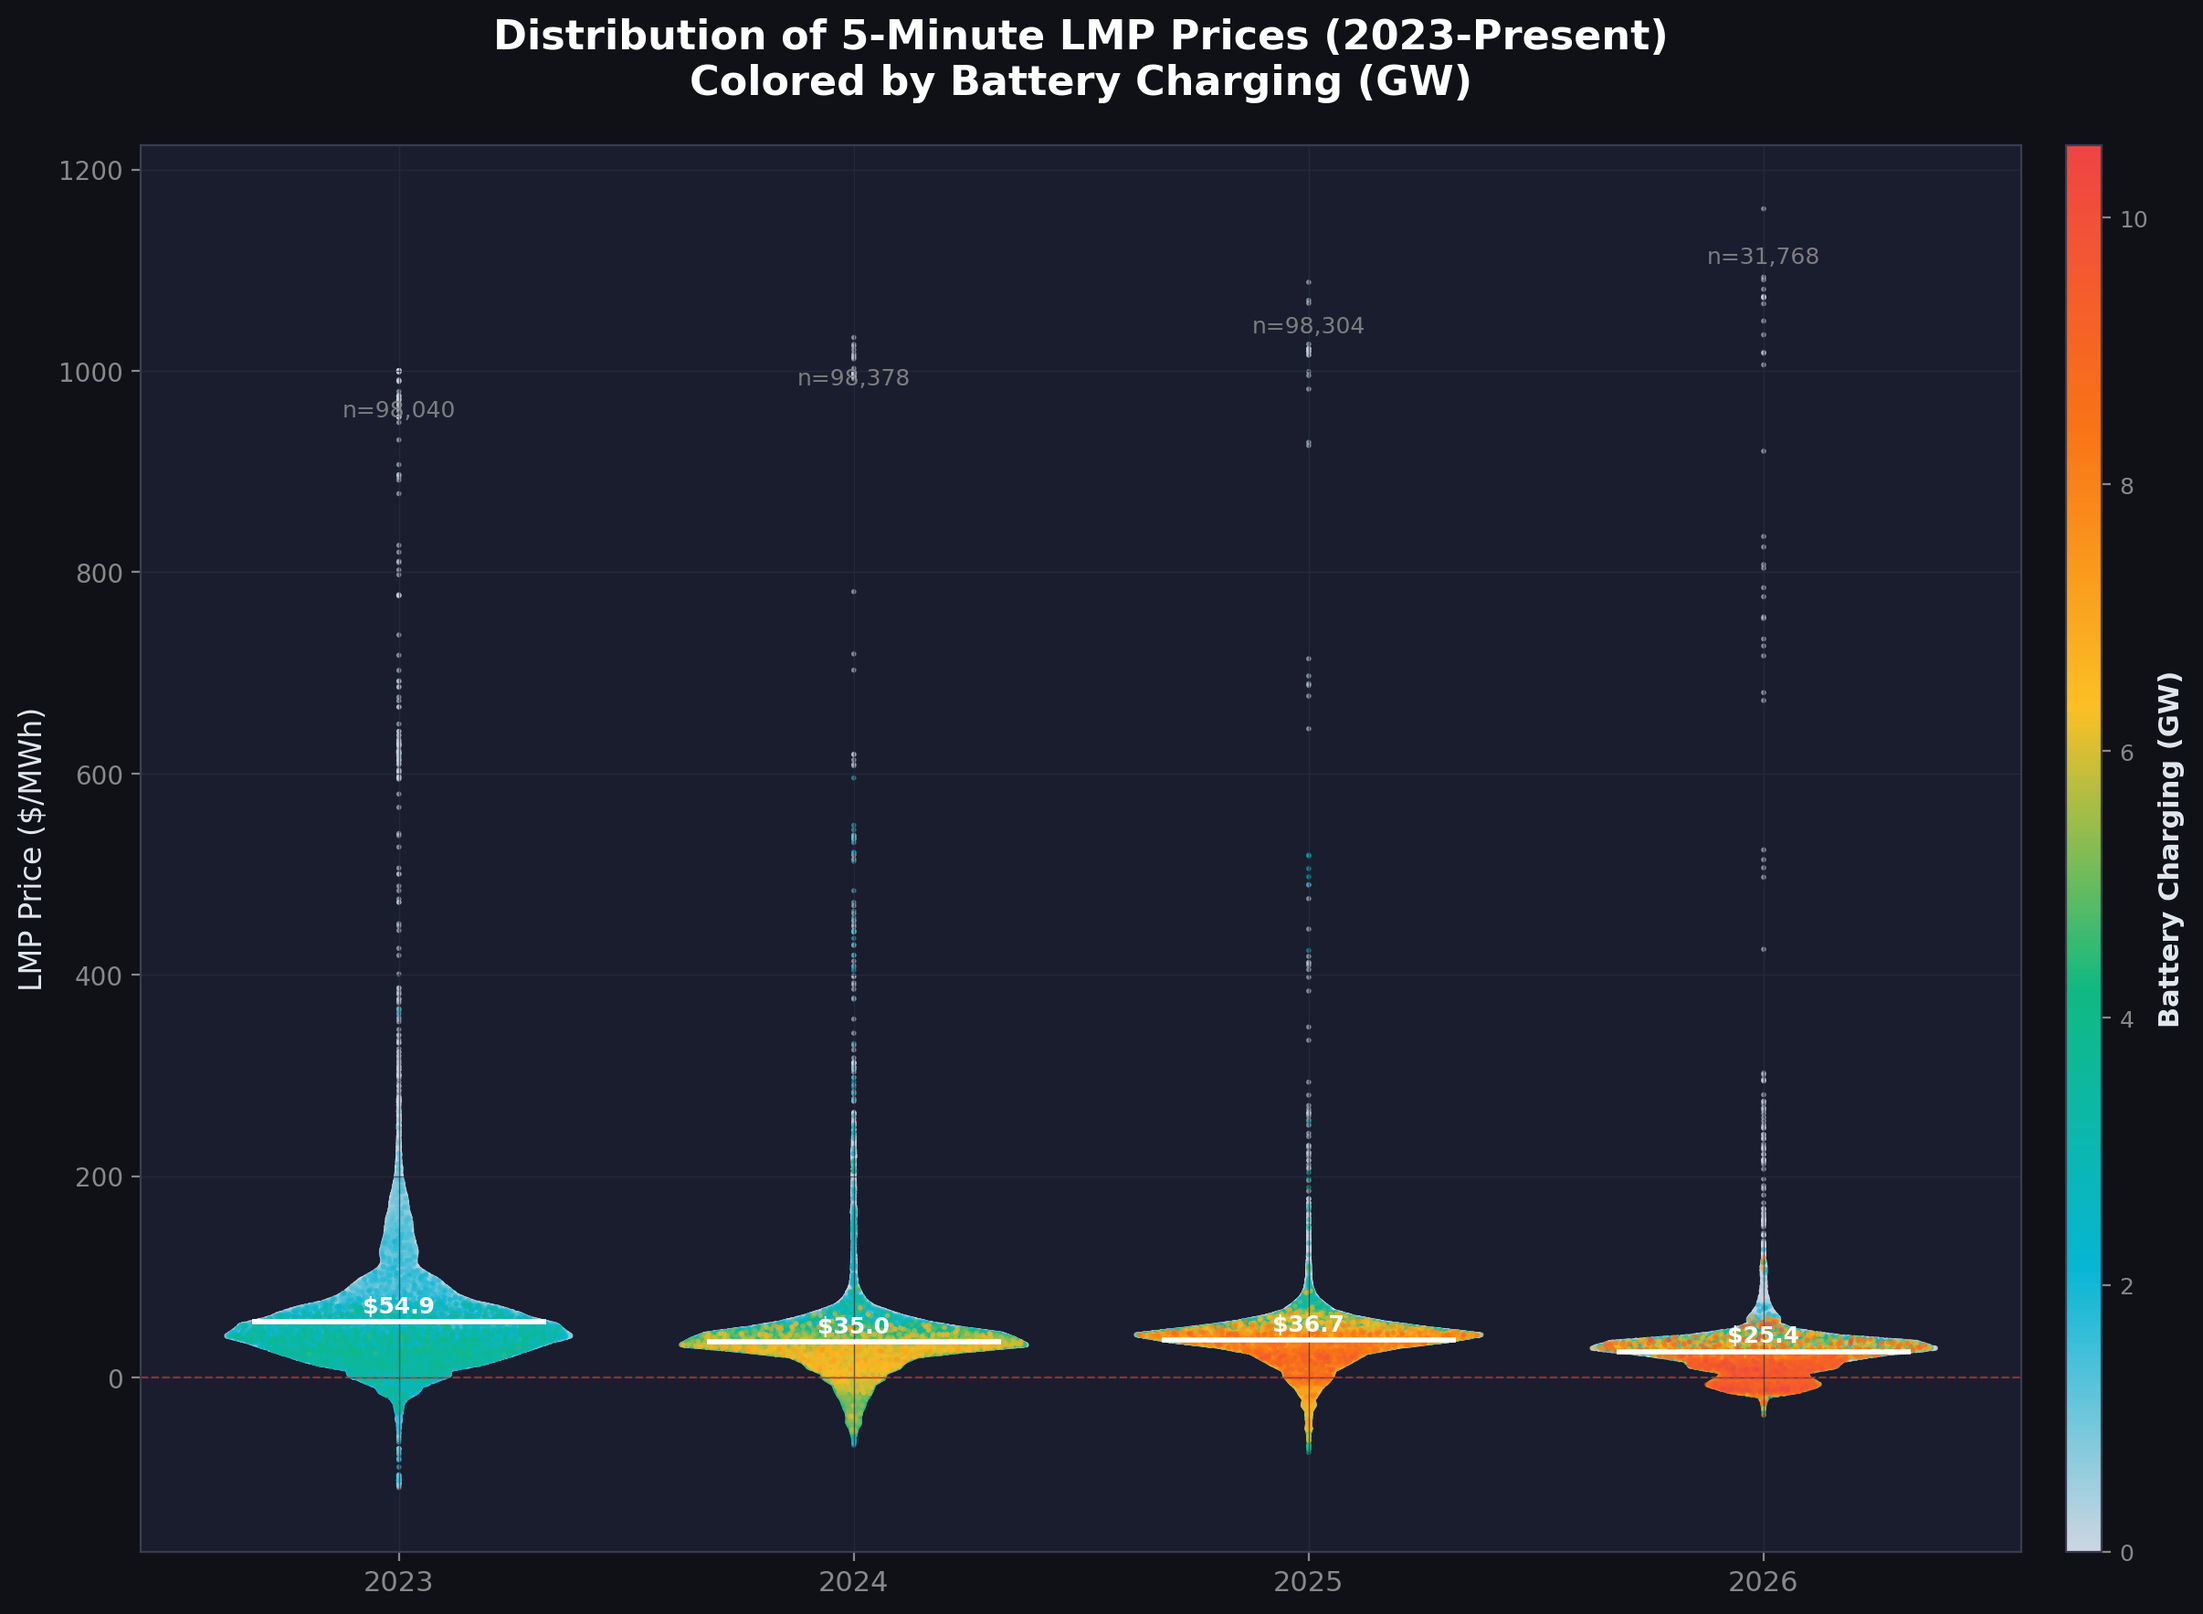
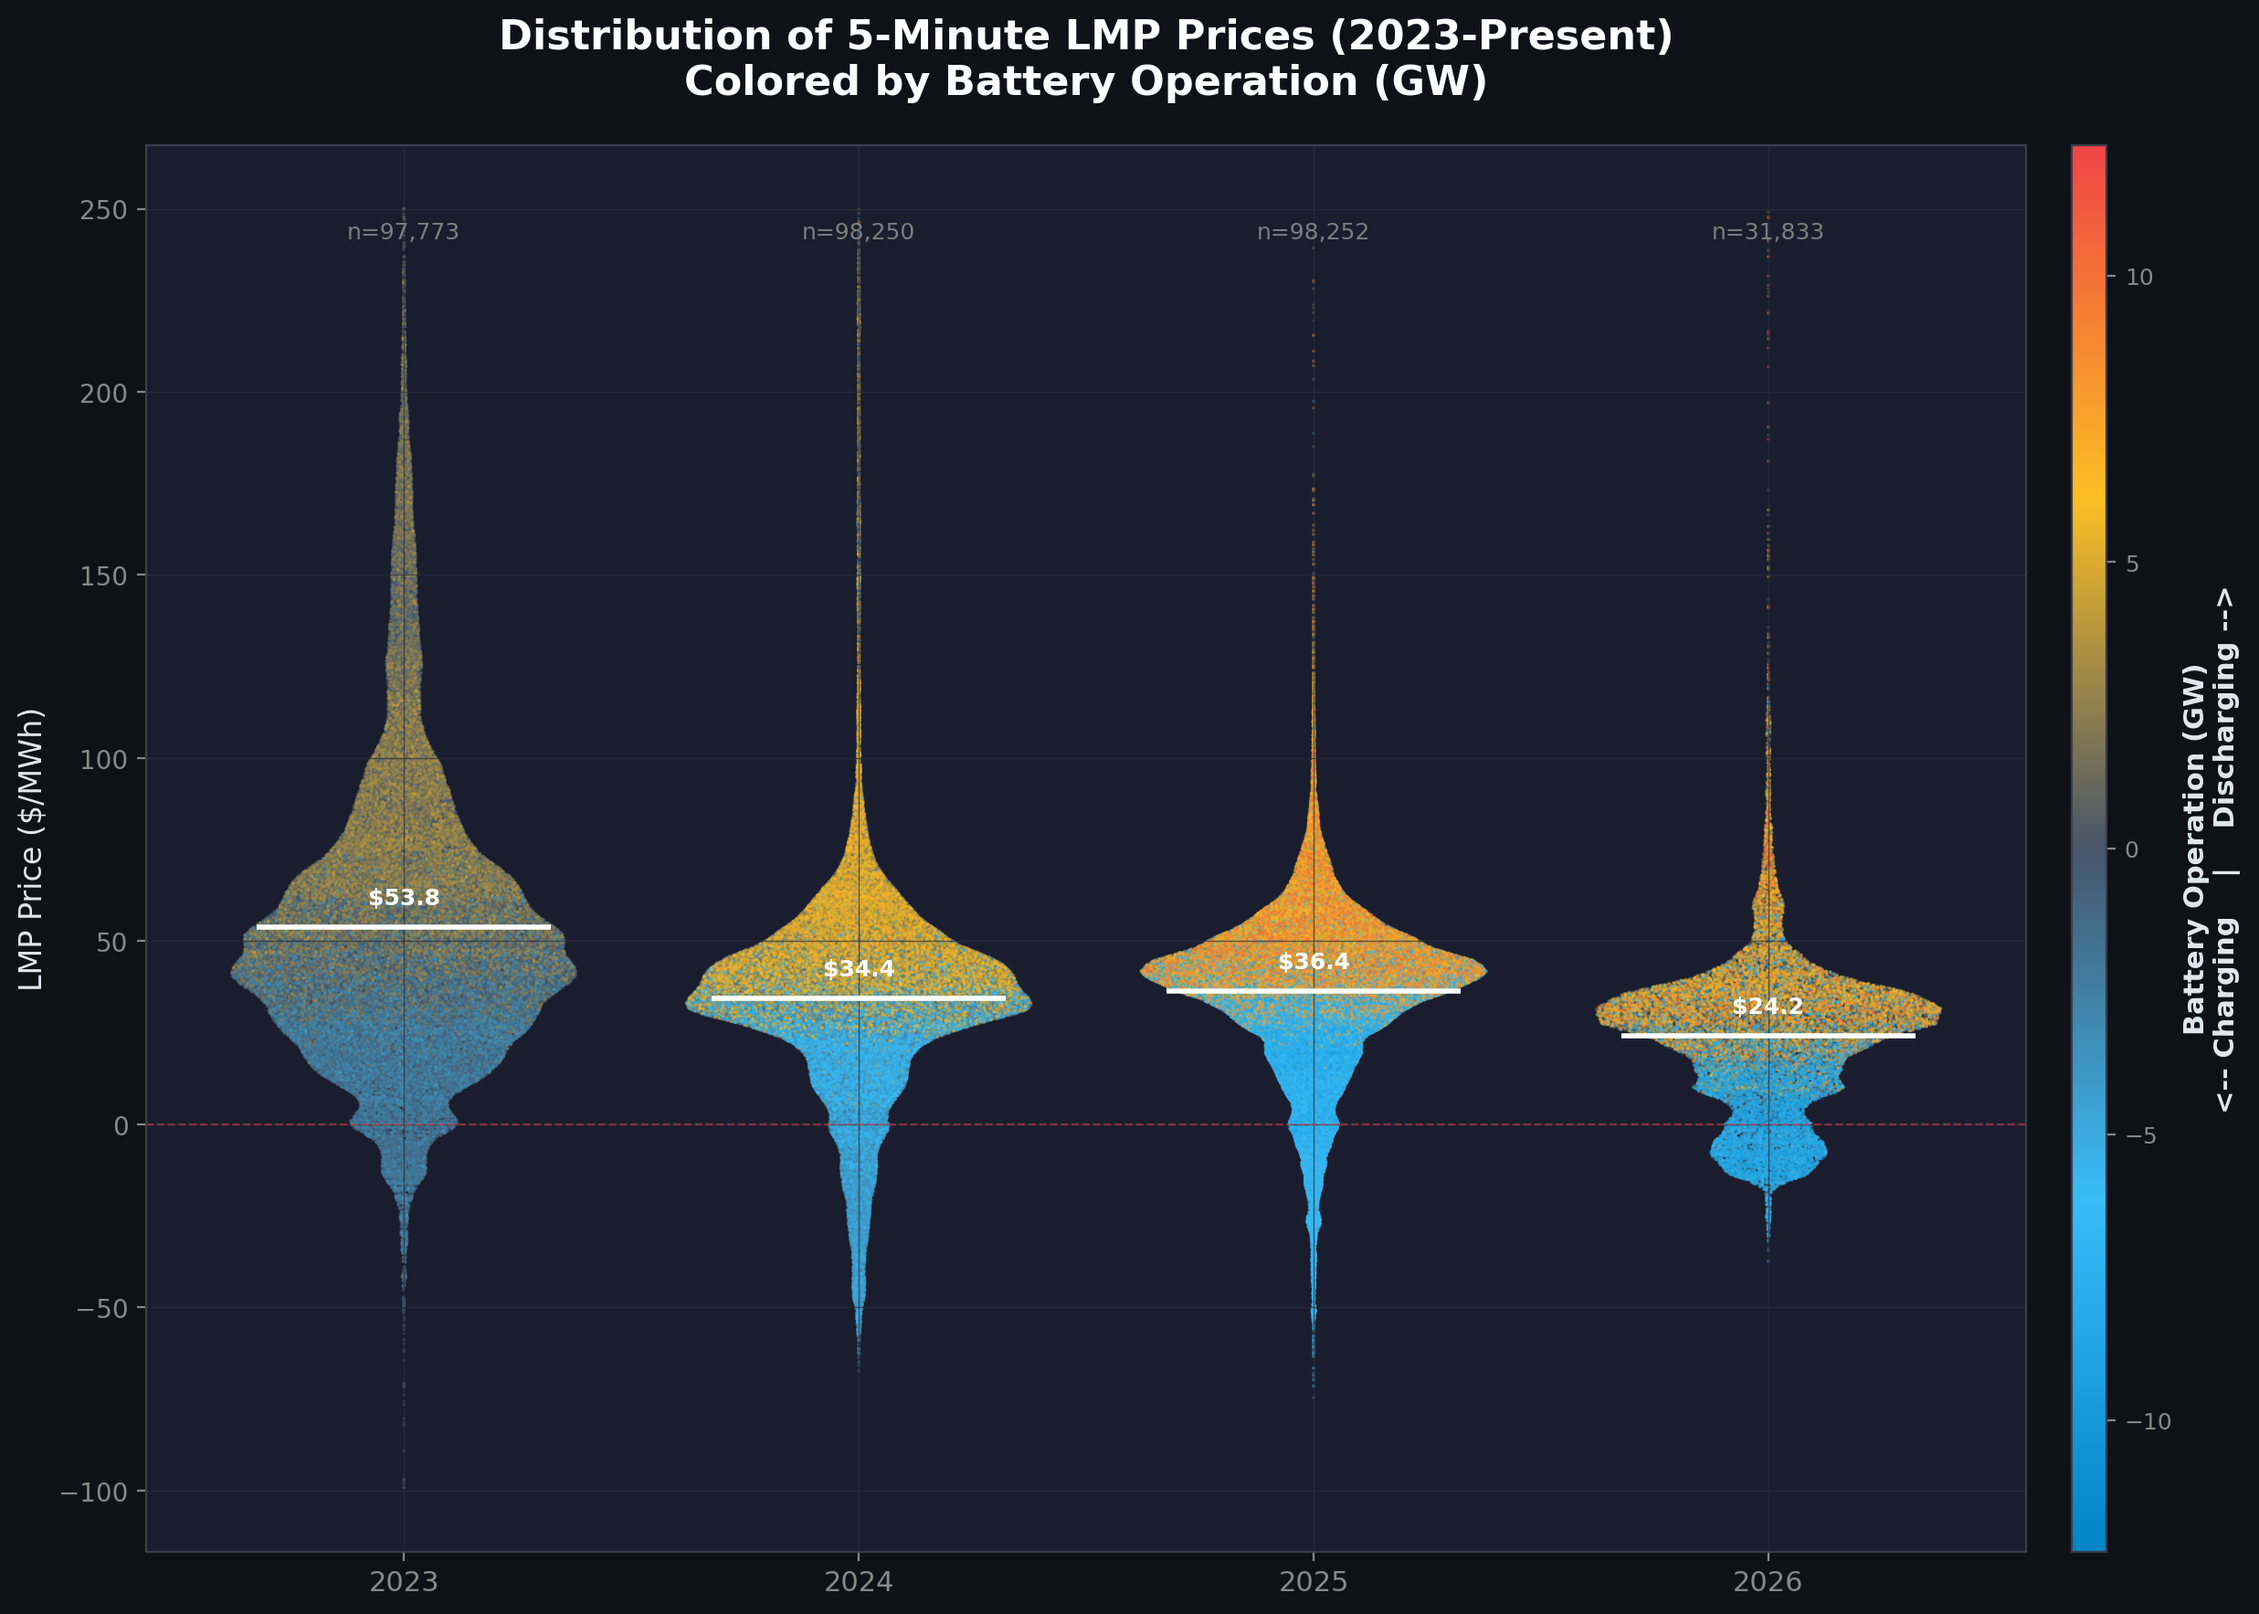
Update LMP distribution charts: add battery operation, refine markers

diff --git a/GridUtilization/plot_5min_lmp_distribution_batt.py b/GridUtilization/plot_5min_lmp_distribution_batt.py
@@ -1,0 +1,183 @@
+import os
+import numpy as np
+import matplotlib.pyplot as plt
+import matplotlib.colors as mcolors
+import pandas as pd
+from scipy.stats import gaussian_kde
+from datetime import datetime as dt
+
+script_dir = os.path.dirname(os.path.abspath(__file__))
+CSV_FILE = os.path.join(script_dir, "caiso_comprehensive_data.csv")
+
+# ── Style constants (consistent with other charts) ──
+BG_OUTER = "#0f1117"
+BG_INNER = "#1a1d2e"
+TEXT_COLOR = "#e2e8f0"
+GRID_COLOR = "#2a2d3e"
+SPINE_COLOR = "#3a3d4e"
+ACCENT_RED = "#ef4444"
+DOT_COLOR = "#22d3ee"
+
+# Curtailment/Battery colormap: light gray -> cyan -> green -> yellow -> orange -> red
+curtail_cmap = mcolors.LinearSegmentedColormap.from_list("curtailment", [
+    "#cbd5e1", "#06b6d4", "#10b981", "#fbbf24", "#f97316", "#ef4444",
+])
+
+def generate_distribution_chart(df_plot, title, filename, show_positive=False, color_col='batt_gw'):
+    """
+    Generates a jittered distribution chart of LMP prices by year.
+    """
+    print(f"Generating chart: {filename}...")
+    
+    years = sorted(df_plot['year'].unique())
+    
+    # Setup figure
+    fig, ax = plt.subplots(figsize=(16, 10), facecolor=BG_OUTER)
+    ax.set_facecolor(BG_INNER)
+    ax.tick_params(colors="#888", labelsize=10)
+    for spine in ax.spines.values():
+        spine.set_color(SPINE_COLOR)
+    ax.grid(True, color=GRID_COLOR, linewidth=0.5, alpha=0.7)
+
+    max_half_width = 0.38
+    
+    # Configure colormap and normalization based on what we are plotting
+    if color_col == 'batt_op_gw':
+        vmax = max(abs(df_plot[color_col].min()), abs(df_plot[color_col].max()))
+        if vmax == 0: vmax = 1.0
+        norm = mcolors.Normalize(vmin=-vmax, vmax=vmax)
+        # Diverging colormap: Blue (Charging) -> Gray (Zero) -> Red (Discharging)
+        cmap = mcolors.LinearSegmentedColormap.from_list("batt_ops", [
+            "#0284c7", "#38bdf8", "#475569", "#fbbf24", "#ef4444"
+        ])
+        cbar_label = "Battery Operation (GW)\n<-- Charging    |    Discharging -->"
+    else:
+        vmax = df_plot[color_col].max()
+        if vmax == 0: vmax = 1.0
+        norm = mcolors.Normalize(vmin=0, vmax=vmax)
+        cmap = curtail_cmap
+        cbar_label = "Battery Charging (GW)"
+        
+    sm = plt.cm.ScalarMappable(cmap=cmap, norm=norm)
+
+    for i, yr in enumerate(years):
+        year_df = df_plot[df_plot['year'] == yr].copy()
+        # Drop NaNs for LMP
+        year_df = year_df.dropna(subset=['lmp'])
+        
+        lmps = year_df['lmp'].values
+        batt_vals = year_df[color_col].values
+        
+        if len(lmps) < 2:
+            continue
+
+        # Check for variance - gaussian_kde fails if all values are identical
+        if np.all(lmps == lmps[0]):
+            densities = np.ones_like(lmps)
+        else:
+            try:
+                # Optimized KDE evaluation for jittering
+                kde = gaussian_kde(lmps, bw_method=0.06)
+                
+                # Evaluation grid
+                l_min, l_max = lmps.min(), lmps.max()
+                grid = np.linspace(l_min, l_max, 200)
+                grid_densities = kde(grid)
+                densities = np.interp(lmps, grid, grid_densities)
+            except Exception as e:
+                print(f"Warning: KDE failed for year {yr}: {e}")
+                densities = np.ones_like(lmps)
+            
+        d_max = densities.max()
+        densities_norm = densities / d_max if d_max > 0 else np.ones_like(densities)
+
+        # Generate jitter
+        raw_jitter = np.random.uniform(-1, 1, size=len(lmps))
+        x_pos = i + raw_jitter * densities_norm * max_half_width
+
+        # Sort by absolute battery value so extreme points (high charging OR discharging) are on top
+        sort_idx = np.argsort(np.abs(batt_vals))
+        
+        # Scatter plot with reduced marker size and alpha for better visibility of variations
+        ax.scatter(x_pos[sort_idx], lmps[sort_idx], c=batt_vals[sort_idx],
+                    cmap=cmap, norm=norm,
+                    s=1.5, alpha=0.5, edgecolors="none", rasterized=True)
+
+        # Mean line
+        mean_lmp = lmps.mean()
+        half_w = max_half_width * 0.85
+        ax.hlines(mean_lmp, i - half_w, i + half_w,
+                   colors="white", linewidths=2, zorder=5)
+        
+        # Text labels
+        ax.text(i, mean_lmp + (1 if not show_positive else 5), f"${mean_lmp:.1f}",
+                 ha="center", va="bottom", fontsize=9, color="white",
+                 fontweight="bold", zorder=6)
+
+        label_y = 2 if not show_positive else ax.get_ylim()[1] * 0.9
+        ax.text(i, label_y, f"n={len(lmps):,}",
+                 ha="center", va="bottom", fontsize=9, color="#888",
+                 alpha=0.9)
+
+    ax.set_xticks(range(len(years)))
+    ax.set_xticklabels([str(yr) for yr in years], fontsize=11, color="#888")
+    ax.set_ylabel("LMP Price ($/MWh)", color=TEXT_COLOR, fontsize=12)
+    
+    ax.set_title(title, color="#fff", fontsize=16, fontweight="bold", pad=20)
+    ax.axhline(0, color=ACCENT_RED, linewidth=0.8, linestyle="--", alpha=0.5)
+
+    # Colorbar
+    cbar = fig.colorbar(sm, ax=ax, orientation="vertical", pad=0.02, aspect=40)
+    cbar.set_label(cbar_label, color=TEXT_COLOR, fontsize=11, fontweight="bold")
+    cbar.ax.tick_params(colors="#888", labelsize=9)
+    cbar.outline.set_edgecolor(SPINE_COLOR)
+
+    out_path = os.path.join(script_dir, filename)
+    fig.savefig(out_path, dpi=200, facecolor=BG_OUTER, bbox_inches="tight")
+    print(f"Saved to {out_path}")
+    plt.close()
+
+def main():
+    print("Loading data from comprehensive CSV...")
+    # Load required columns
+    df = pd.read_csv(CSV_FILE, usecols=['timestamp', 'lmp', 'battery_charging_mw', 'batteries_mw'], parse_dates=['timestamp'])
+    
+    # Ensure numeric
+    df['lmp'] = pd.to_numeric(df['lmp'], errors='coerce')
+    df['battery_charging_mw'] = pd.to_numeric(df['battery_charging_mw'], errors='coerce').fillna(0)
+    df['batteries_mw'] = pd.to_numeric(df['batteries_mw'], errors='coerce').fillna(0)
+    
+    df['batt_gw'] = df['battery_charging_mw'] / 1000.0
+    df['batt_op_gw'] = df['batteries_mw'] / 1000.0
+    df['year'] = df.index.year if isinstance(df.index, pd.DatetimeIndex) else df['timestamp'].dt.year
+    
+    # Version 1: Only negative prices
+    print("Processing Version 1: Negative LMPs...")
+    df_neg = df[df['lmp'] < 0].copy()
+    generate_distribution_chart(
+        df_neg, 
+        "Distribution of 5-Minute Negative LMP Prices by Year\nColored by Battery Charging (GW)",
+        "negative_lmp_5min_distribution_batt.png",
+        show_positive=False,
+        color_col='batt_gw'
+    )
+    
+    # Version 2: All prices since 2023
+    print("Processing Version 2: All LMPs since 2023...")
+    df_all = df[df['year'] >= 2023].copy()
+    
+    # Capping LMP to 150 to keep the chart readable and focus on the main distribution
+    # since occasional spikes to $1000 can squash the entire violin plot
+    df_all = df_all[df_all['lmp'] <= 250]
+    df_all = df_all[df_all['lmp'] >= -100]
+
+    generate_distribution_chart(
+        df_all,
+        "Distribution of 5-Minute LMP Prices (2023-Present)\nColored by Battery Operation (GW)",
+        "all_lmp_5min_distribution_batt.png",
+        show_positive=True,
+        color_col='batt_op_gw'
+    )
+
+if __name__ == "__main__":
+    main()
